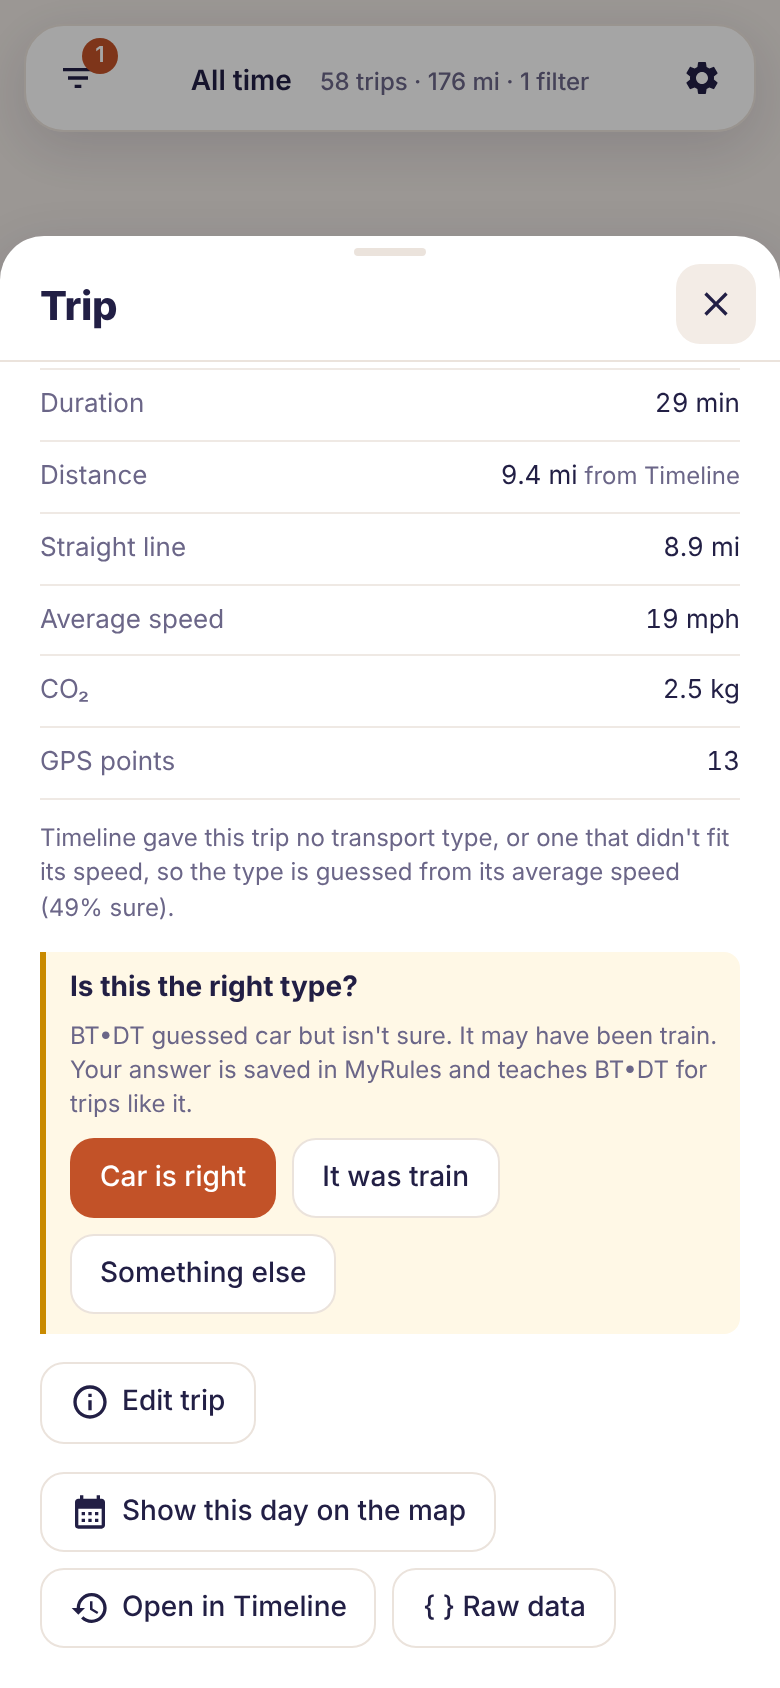
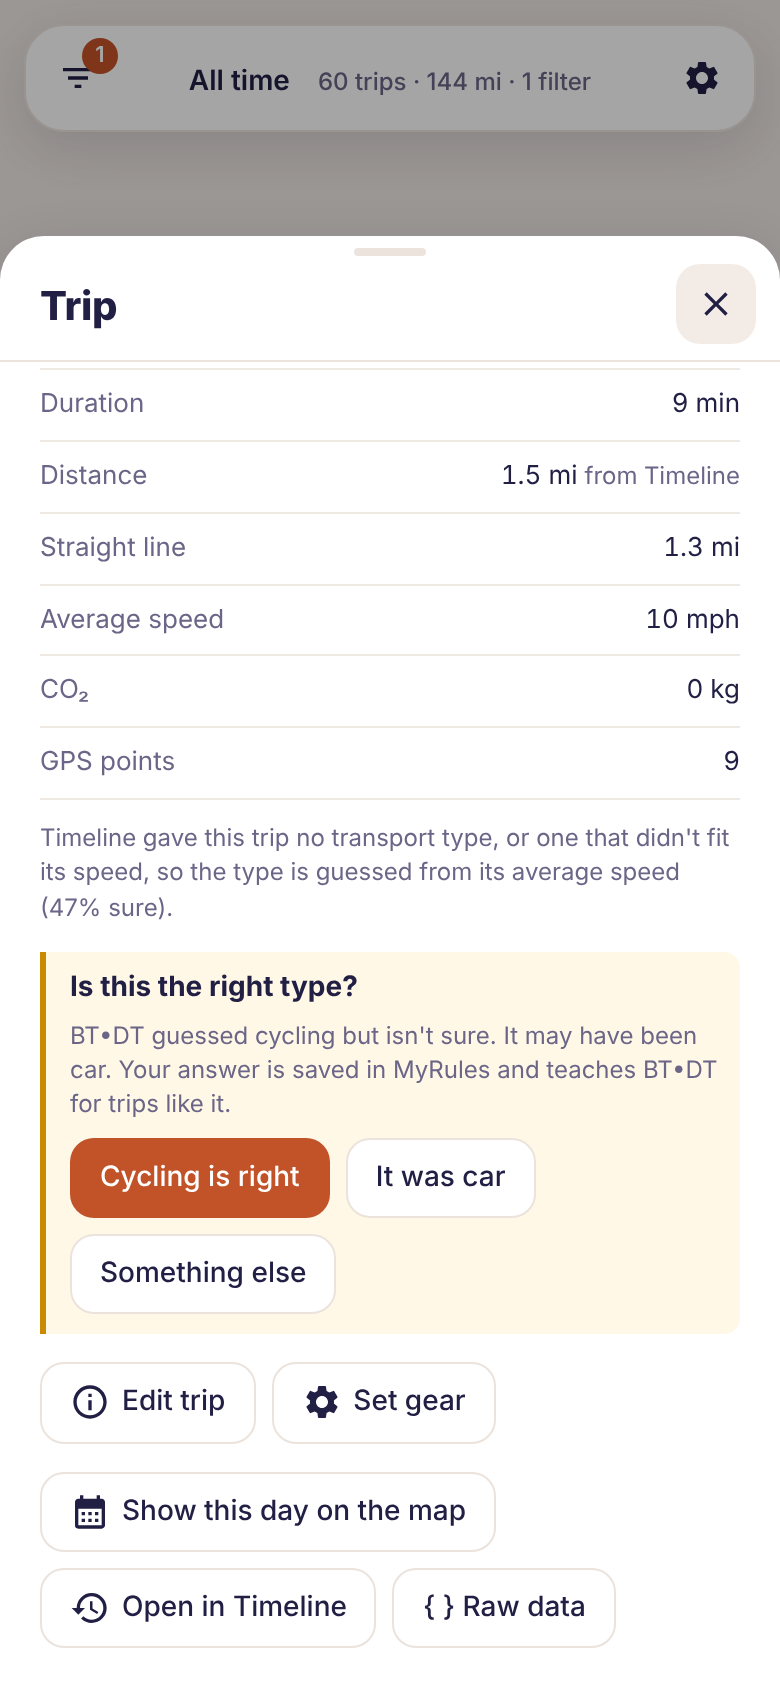
Transport guess: ride speed limit 20 km/h, and loop rides measured along their trail
Tested on the trips since 2020 (better curated labels): agreement with Google 87.6% -> 90.3%
(bike 64% -> 81%, car 87% -> 90%). Untyped trips whose distance looked broken were cut to the
straight line between their ends, which made a ride back to where it started a few metres long.

Claude-Session: https://claude.ai/code/session_013teZ6PUmL8sFh1Pth4EAwz

diff --git a/index.html b/index.html
@@ -1783,12 +1783,14 @@ function Collector() {
 }
 // Trips Timeline couldn't classify get a mode guessed from their average speed,
 // marked with the GUESSED bit in est.
-var GUESSED = 4;
+var GUESSED = 4, GUESS_BIKE_KMH = 20;
 function guessMode(dist, hours) {
   if (!(hours > 0)) return null;
   var v = dist / hours;
   if (v < 7) return 'WALKING';
-  if (v < 25) return 'CYCLING';
+  // 20, not 25: a drive through town averages 15 to 25 km/h, and a ride over 20 mostly has your own
+  // rides between the same places to settle it (see TripIndex).
+  if (v < GUESS_BIKE_KMH) return 'CYCLING';
   // Up to 300 km/h a car is likelier than a plane, though no car goes that fast: such a trip is a GPS
   // jump, which cleanJumps looks at (it would leave a flight alone).
   if (v < 300) return 'CAR';
@@ -1819,8 +1821,10 @@ Collector.prototype.add = function (mode, st, et, dist, est, a, b, pts, ptsT) {
   if (mode === 'UNKNOWN' && et) {
     // Untyped trips often carry a broken distance (e.g. 148 km for a 16 km hop).
     // When it's far longer than the straight line between the ends, use the straight line.
-    var line = km(a, b);
-    if (line > 0 && dist > 3 * line + 5 && !this.gps) { dist = line; est = 2; }
+    // A ride or walk that comes back to where it started has a short straight line, so the trail between
+    // the ends counts too when there is one.
+    var line = km(a, b), path = pts && pts.length ? pathKm([a].concat(pts, [b]).filter(Boolean)) : 0, far = Math.max(line, path);
+    if (far > 0 && dist > 3 * far + 5 && !this.gps) { dist = far; est = path > line ? 1 : 2; }
     var g = guessMode(dist, (et.ms - st.ms) / 36e5);
     // Too fast for the ground but under 250 km apart is a GPS jump, not a flight: leave it out.
     if (g === 'FLYING' && !(line >= 250)) g = null;
@@ -2371,9 +2375,9 @@ function profileMode(g, run, avg) {
   return g;
 }
 // How sure a type from the average speed is: low near the edges between walking, cycling and
-// driving (7 and 25 km/h), higher away from them.
+// driving (7 and GUESS_BIKE_KMH), higher away from them.
 function speedConf(avg) {
-  var d = Math.min(Math.abs(Math.log(avg / 7)), Math.abs(Math.log(avg / 25)));
+  var d = Math.min(Math.abs(Math.log(avg / 7)), Math.abs(Math.log(avg / GUESS_BIKE_KMH)));
   return Math.round(30 + Math.min(40, 40 * d / Math.log(1.6)));
 }
 // How a guessed type was found (R.gby), and how sure it is (R.gconf, 0 to 100). Trips under

diff --git a/source/src/parser.js b/source/src/parser.js
@@ -100,12 +100,14 @@ function Collector() {
 }
 // Trips Timeline couldn't classify get a mode guessed from their average speed,
 // marked with the GUESSED bit in est.
-var GUESSED = 4;
+var GUESSED = 4, GUESS_BIKE_KMH = 20;
 function guessMode(dist, hours) {
   if (!(hours > 0)) return null;
   var v = dist / hours;
   if (v < 7) return 'WALKING';
-  if (v < 25) return 'CYCLING';
+  // 20, not 25: a drive through town averages 15 to 25 km/h, and a ride over 20 mostly has your own
+  // rides between the same places to settle it (see TripIndex).
+  if (v < GUESS_BIKE_KMH) return 'CYCLING';
   // Up to 300 km/h a car is likelier than a plane, though no car goes that fast: such a trip is a GPS
   // jump, which cleanJumps looks at (it would leave a flight alone).
   if (v < 300) return 'CAR';
@@ -136,8 +138,10 @@ Collector.prototype.add = function (mode, st, et, dist, est, a, b, pts, ptsT) {
   if (mode === 'UNKNOWN' && et) {
     // Untyped trips often carry a broken distance (e.g. 148 km for a 16 km hop).
     // When it's far longer than the straight line between the ends, use the straight line.
-    var line = km(a, b);
-    if (line > 0 && dist > 3 * line + 5 && !this.gps) { dist = line; est = 2; }
+    // A ride or walk that comes back to where it started has a short straight line, so the trail between
+    // the ends counts too when there is one.
+    var line = km(a, b), path = pts && pts.length ? pathKm([a].concat(pts, [b]).filter(Boolean)) : 0, far = Math.max(line, path);
+    if (far > 0 && dist > 3 * far + 5 && !this.gps) { dist = far; est = path > line ? 1 : 2; }
     var g = guessMode(dist, (et.ms - st.ms) / 36e5);
     // Too fast for the ground but under 250 km apart is a GPS jump, not a flight: leave it out.
     if (g === 'FLYING' && !(line >= 250)) g = null;
@@ -688,9 +692,9 @@ function profileMode(g, run, avg) {
   return g;
 }
 // How sure a type from the average speed is: low near the edges between walking, cycling and
-// driving (7 and 25 km/h), higher away from them.
+// driving (7 and GUESS_BIKE_KMH), higher away from them.
 function speedConf(avg) {
-  var d = Math.min(Math.abs(Math.log(avg / 7)), Math.abs(Math.log(avg / 25)));
+  var d = Math.min(Math.abs(Math.log(avg / 7)), Math.abs(Math.log(avg / GUESS_BIKE_KMH)));
   return Math.round(30 + Math.min(40, 40 * d / Math.log(1.6)));
 }
 // How a guessed type was found (R.gby), and how sure it is (R.gconf, 0 to 100). Trips under

diff --git a/source/static/sw.js b/source/static/sw.js
@@ -1,7 +1,7 @@
 // Offline support for BT•DT. The page and its libraries are cached so the
 // app opens without a connection; map tiles are cached as you look at them.
 // Timeline files are never fetched or cached here: they are read straight from the device.
-var VERSION = 'btdt-v109';
+var VERSION = 'btdt-v110';
 var SHELL = ['./', './index.html', './manifest.webmanifest', './icon-192.png', './icon-512.png', './favicon.ico', './favicon.svg', './landing-1600.webp', './landing-bg-1600.webp', './landing-bg-2752.webp', './landing-fg-1600.webp', './landing-fg-2752.webp', './bluehair-logo.png'];
 var LIBS = [
   'https://cdnjs.cloudflare.com/ajax/libs/leaflet/1.9.4/leaflet.min.js',

diff --git a/sw.js b/sw.js
@@ -1,7 +1,7 @@
 // Offline support for BT•DT. The page and its libraries are cached so the
 // app opens without a connection; map tiles are cached as you look at them.
 // Timeline files are never fetched or cached here: they are read straight from the device.
-var VERSION = 'btdt-v109';
+var VERSION = 'btdt-v110';
 var SHELL = ['./', './index.html', './manifest.webmanifest', './icon-192.png', './icon-512.png', './favicon.ico', './favicon.svg', './landing-1600.webp', './landing-bg-1600.webp', './landing-bg-2752.webp', './landing-fg-1600.webp', './landing-fg-2752.webp', './bluehair-logo.png'];
 var LIBS = [
   'https://cdnjs.cloudflare.com/ajax/libs/leaflet/1.9.4/leaflet.min.js',

diff --git a/source/README.md b/source/README.md
@@ -67,7 +67,7 @@ Older on-device Timeline data often keeps GPS points while you were moving but n
 
 A corrupted GPS fix (a digit dropped from the longitude, or a stale position such as home showing up mid-trip) puts a point kilometres off the route, which draws a spike on the map and inflates the distance. Such a point is left out of the trip's line when reaching it means moving impossibly fast for the trip's transport (one and a half times its fastest believable average speed, e.g. 22 km/h on foot and 75 km/h by bike, and 160 km/h on the road) and either the line goes out to it and comes straight back, or it is the trip's start or end and the rest of the trip is consistent (and the trip couldn't have gone between its two ends in its time, or the end repeats a point from inside the trip). Jumps under 1 km are left alone, as is a jump under 5 km at an end with under a minute to the next point. A distance from Timeline or along the GPS trail that counted the detour loses it (Timeline's figure is shown in the trip details), and a straight-line distance is redrawn between the new ends. These trips say so in their details and carry the flag *bad GPS points left out*. A trip with only its two ends has no line to check, so its ends are checked against the stays and trips around it: every trip end and stay, in time order, makes a track of where you were (ends and stays within 1 km in a row are one stop). A stop holding one end of such a trip is a bad position when it lasted under 6 hours, is at least 5 km from the stops on both sides while those are close together (out and straight back), and is reached or left at over 300 km/h (within a day of a flight, faster than a plane, so a layover Timeline missed a flight for stays). Its trip ends and stays move to the stop next to it in time, and those trips' lines and distances follow; a trip whose type was guessed from its speed is guessed again. Strava activities, simulated trips and flights are left as they are. Trips saved on the device before this check existed are cleaned when the app opens.
 
-A trip with no transport type from Timeline (or one that didn't fit its speed) gets a guessed one, worked out again each time the app opens (`retypeGuessed`). First the speed: under 7 km/h is walking, under 25 km/h cycling, and anything up to 300 km/h a car, so the GPS jump check above treats it as road traffic (trips made from GPS points use the speed they kept while moving, see below). The speed along the way then checks that (`profileMode`, on trips with 4 or more points): a walk or ride with 1.5 km, and a quarter of its distance, on stretches over 40 km/h was in a vehicle, and a drive averaging under 30 km/h that never went over 26 km/h on any of three or more stretches of 200 m is a bike ride. A car guess that still averages over 160 km/h once cleaned is a train. Next come your own trips between the same two places (`TripIndex`: both ends within 400 m, either way round, and an average speed within 6 km/h or 35% of the trip's): when at least 3 of them, 60% of them on one kind of transport (a taxi counts as a car), agree and the trip's speed fits that kind, it takes the type most of them have. On a real ten-year Timeline (23,000 typed trips), hiding Google's type on one trip in five and guessing it agreed with Google 82.5% of the time, up from 70% with speed alone (tram 0% to 68%, car 66% to 82%, train 52% to 75%). Each guess keeps how it was made and how sure it is (`R.gby`, `R.gconf`; shown in the trip details). A car guess whose line mostly follows (within about 150 to 300 m) the lines of your trips that Timeline did type, all of one motorised kind, takes that kind, so the commute Timeline typed as a train on other days is a train on the days it didn't (60% of the line covered, and at least 15 percentage points more than any other kind; not when the trip is too fast for that kind). Otherwise, a car guess that leaves from and arrives at stays named like a railway station (Station, Centraal, Hbf, Bahnhof, Gare, Estación and so on; not gas, police, bus or metro stations) is a train, and so is one with a station at one end that spent most of its distance at a steady 50 km/h or more. Strava activities and guessed flights are left as they are.
+A trip with no transport type from Timeline (or one that didn't fit its speed) gets a guessed one, worked out again each time the app opens (`retypeGuessed`). First the speed: under 7 km/h is walking, under 20 km/h cycling, and anything up to 300 km/h a car, so the GPS jump check above treats it as road traffic (trips made from GPS points use the speed they kept while moving, see below). The speed along the way then checks that (`profileMode`, on trips with 4 or more points): a walk or ride with 1.5 km, and a quarter of its distance, on stretches over 40 km/h was in a vehicle, and a drive averaging under 30 km/h that never went over 26 km/h on any of three or more stretches of 200 m is a bike ride. A car guess that still averages over 160 km/h once cleaned is a train. Next come your own trips between the same two places (`TripIndex`: both ends within 400 m, either way round, and an average speed within 6 km/h or 35% of the trip's): when at least 3 of them, 60% of them on one kind of transport (a taxi counts as a car), agree and the trip's speed fits that kind, it takes the type most of them have. On a real ten-year Timeline (23,000 typed trips), hiding Google's type on one trip in five and guessing it agreed with Google 84% of the time, up from 70% with speed alone (tram 0% to 68%, car 66% to 86%, train 52% to 75%); on the trips since 2020, whose types are better kept, 90% up from 76%. An untyped trip whose distance is far more than the line between its ends is measured along its GPS trail when it has one, not the straight line, so a ride that comes back to where it started isn't a few metres long. Each guess keeps how it was made and how sure it is (`R.gby`, `R.gconf`; shown in the trip details). A car guess whose line mostly follows (within about 150 to 300 m) the lines of your trips that Timeline did type, all of one motorised kind, takes that kind, so the commute Timeline typed as a train on other days is a train on the days it didn't (60% of the line covered, and at least 15 percentage points more than any other kind; not when the trip is too fast for that kind). Otherwise, a car guess that leaves from and arrives at stays named like a railway station (Station, Centraal, Hbf, Bahnhof, Gare, Estación and so on; not gas, police, bus or metro stations) is a train, and so is one with a station at one end that spent most of its distance at a steady 50 km/h or more. Strava activities and guessed flights are left as they are.
 
 After MyRules (`mrLearn`), guessed trips vote again with your own fixes in: a type you set or checked counts three times, a routine's or a recorded activity's twice. A guess that changes says so in its details. Trips worth a look are marked *Check* (`D.chk`, with the suggested type): guesses under 50% sure; a type from your files that 5 or more of your like trips between the same places disagree with (80% of them on another kind, and no more than 10% sharing its own), among cycling and motorised types; and a ride from your files averaging over 32 km/h. *Check N trips whose type may be wrong* in Filters shows only those, over all time. A checked trip's details ask *Is this the right type?*: keeping it writes a correction with the type (for a guess) or `"checked": true` (for a type from your files), changing it writes the new type, and the next trip to check opens. Trips you fixed or checked, recorded activities and flights are never offered.
 
